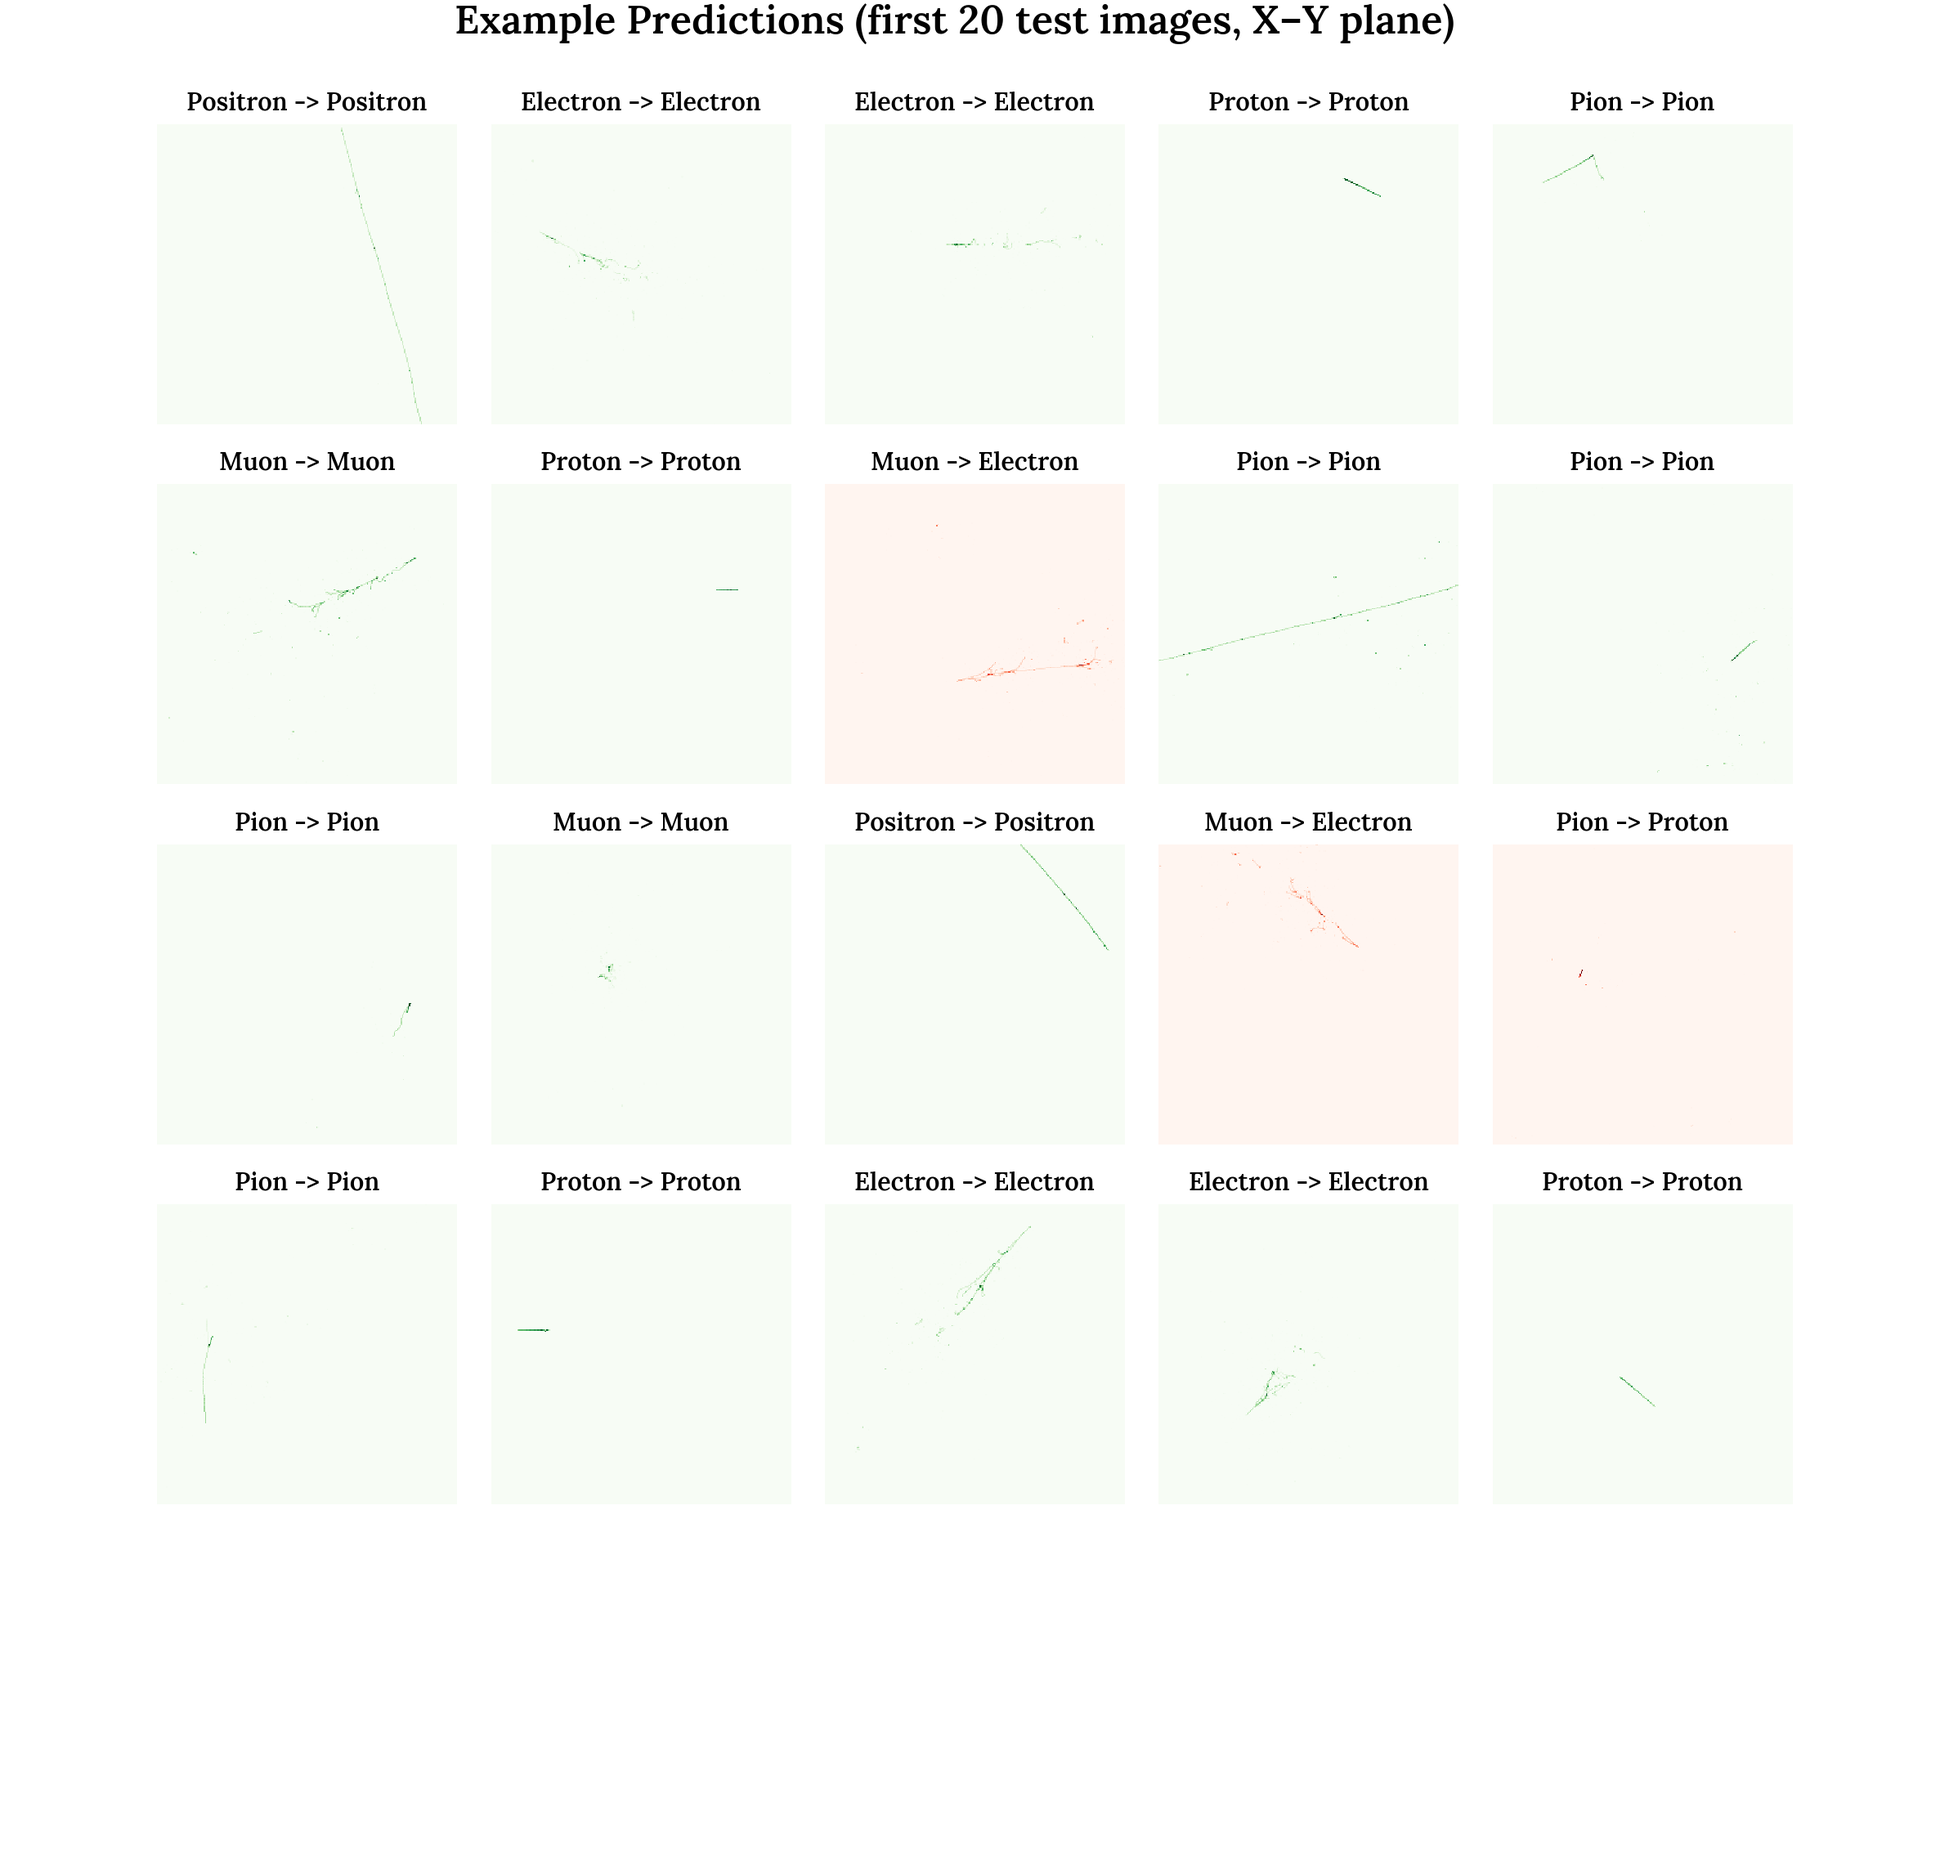
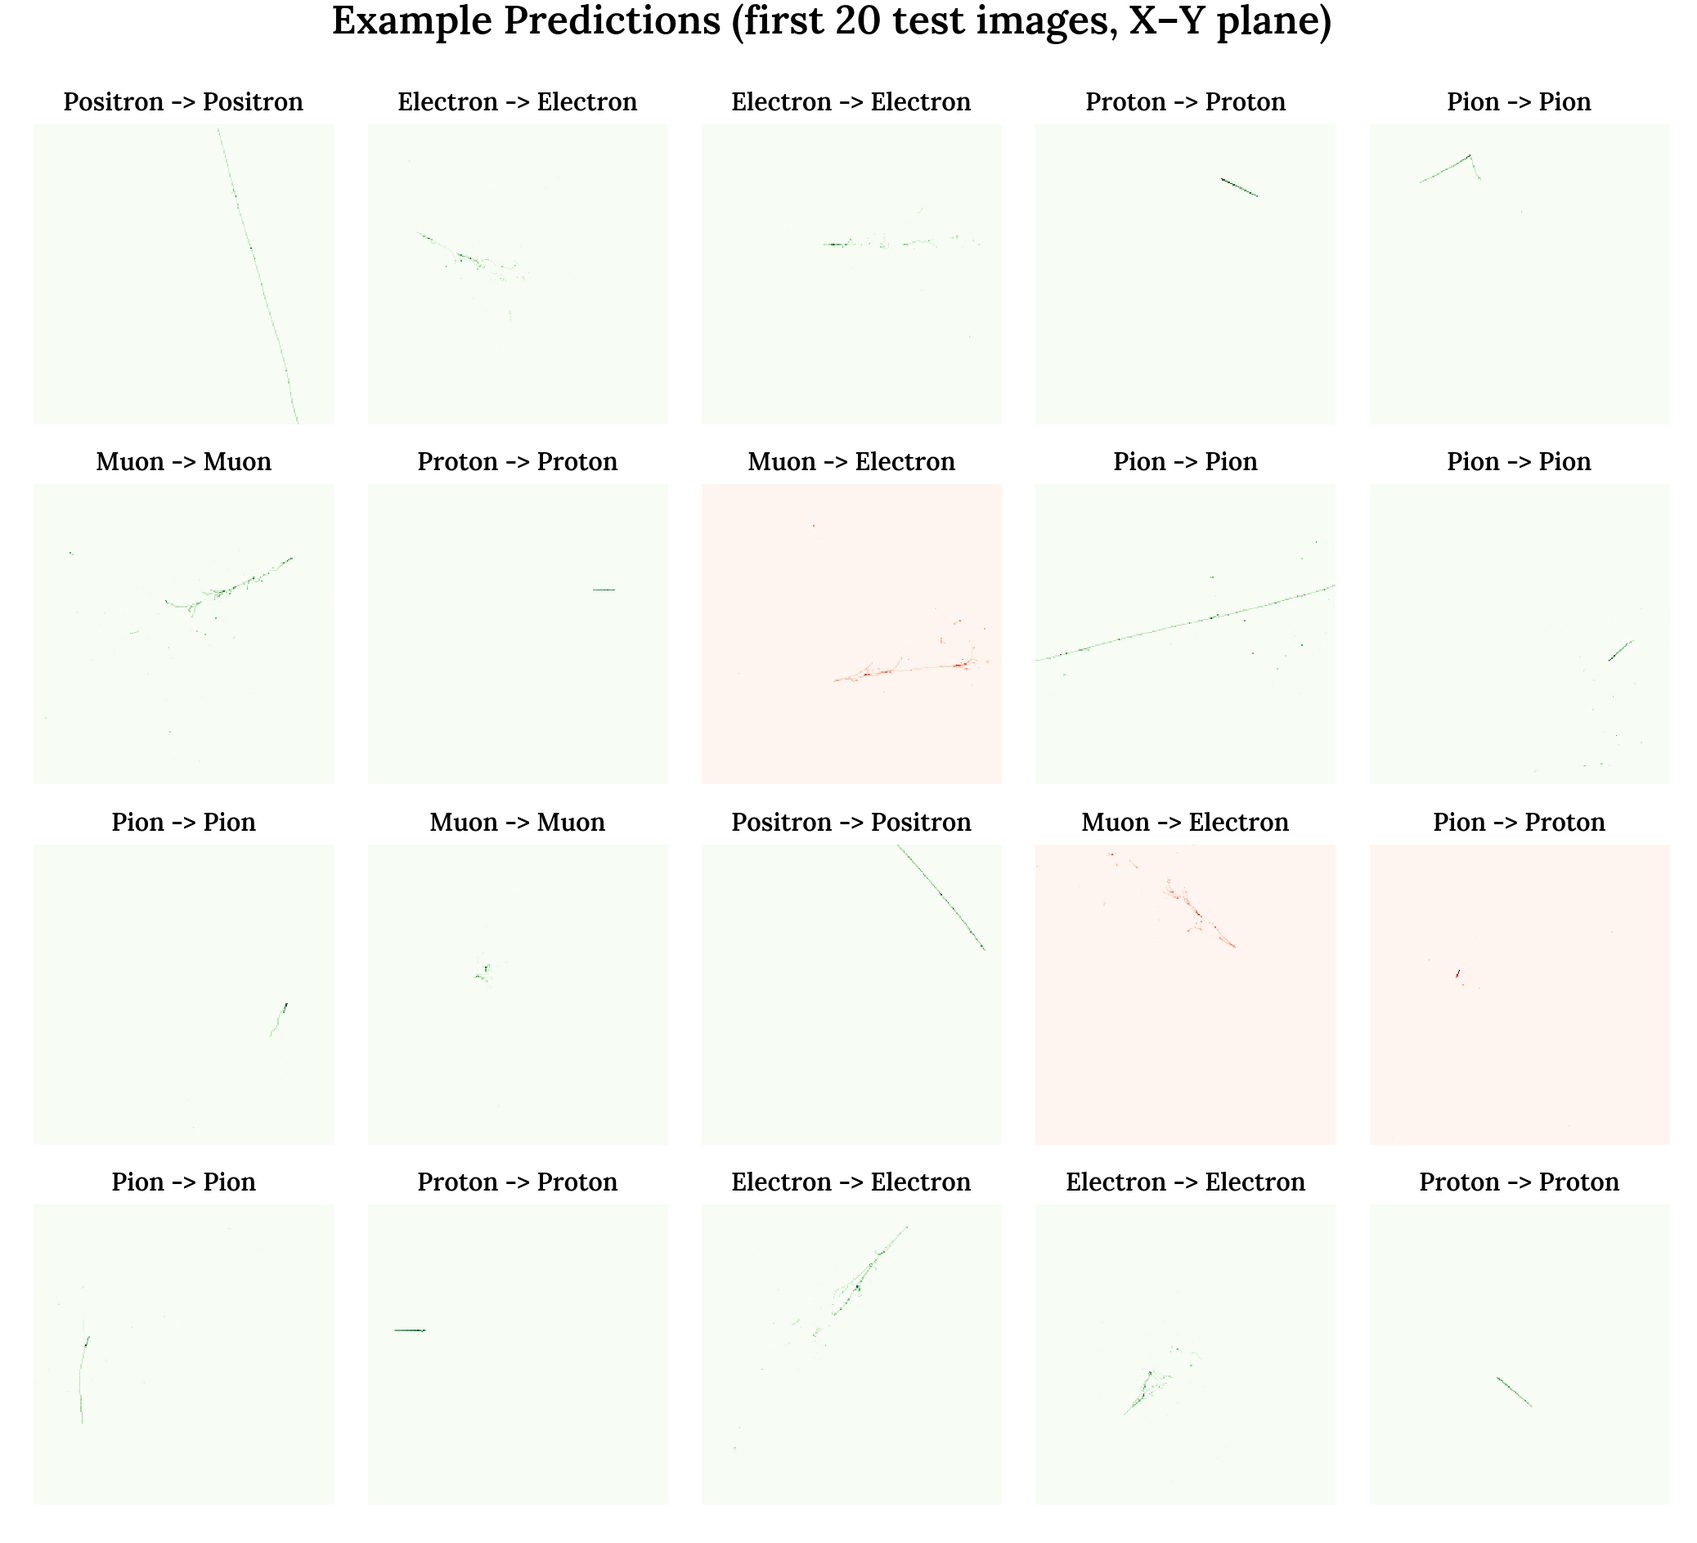
Finished project post for CNN

diff --git a/project/projects_files/libs/quarto-html/axe/axe-check 2.js b/project/projects_files/libs/quarto-html/axe/axe-check 2.js
@@ -1,0 +1,145 @@
+class QuartoAxeReporter {
+  constructor(axeResult, options) {
+    this.axeResult = axeResult;
+    this.options = options;
+  }
+
+  report() {
+    throw new Error("report() is an abstract method");
+  }
+}
+
+class QuartoAxeJsonReporter extends QuartoAxeReporter {
+  constructor(axeResult, options) {
+    super(axeResult, options);
+  }
+
+  report() {
+    console.log(JSON.stringify(this.axeResult, null, 2));
+  }
+}
+
+class QuartoAxeConsoleReporter extends QuartoAxeReporter {
+  constructor(axeResult, options) {
+    super(axeResult, options);
+  }
+
+  report() {
+    for (const violation of this.axeResult.violations) {
+      console.log(violation.description);
+      for (const node of violation.nodes) {
+        for (const target of node.target) {
+          console.log(target);
+          console.log(document.querySelector(target));
+        }
+      }
+    }
+  }
+}
+
+class QuartoAxeDocumentReporter extends QuartoAxeReporter {
+  constructor(axeResult, options) {
+    super(axeResult, options);
+  }
+
+  createViolationElement(violation) {
+    const violationElement = document.createElement("div");
+
+    const descriptionElement = document.createElement("div");
+    descriptionElement.className = "quarto-axe-violation-description";
+    descriptionElement.innerText = `${violation.impact.replace(/^[a-z]/, match => match.toLocaleUpperCase())}: ${violation.description}`;
+    violationElement.appendChild(descriptionElement);
+
+    const helpElement = document.createElement("div");
+    helpElement.className = "quarto-axe-violation-help";
+    helpElement.innerText = violation.help;
+    violationElement.appendChild(helpElement);
+
+    const nodesElement = document.createElement("div");
+    nodesElement.className = "quarto-axe-violation-nodes";
+    violationElement.appendChild(nodesElement);
+    const nodeElement = document.createElement("div");
+    nodeElement.className = "quarto-axe-violation-selector";
+    for (const node of violation.nodes) {
+      for (const target of node.target) {
+        const targetElement = document.createElement("span");
+        targetElement.className = "quarto-axe-violation-target";
+        targetElement.innerText = target;
+        nodeElement.appendChild(targetElement);
+        nodeElement.addEventListener("mouseenter", () => {
+          const element = document.querySelector(target);
+          if (element) {
+            element.scrollIntoView({ behavior: "smooth", block: "center" });
+            element.classList.add("quarto-axe-hover-highlight");
+            setTimeout(() => {
+              element.style.border = "";
+            }, 2000);
+          }
+        });
+        nodeElement.addEventListener("mouseleave", () => {
+          const element = document.querySelector(target);
+          if (element) {
+            element.classList.remove("quarto-axe-hover-highlight");
+          }
+        });
+        nodeElement.addEventListener("click", () => {
+          console.log(document.querySelector(target));
+        });
+        nodeElement.appendChild(targetElement);
+      }
+      nodesElement.appendChild(nodeElement);
+    }
+    return violationElement;
+  }
+
+  report() {
+    const violations = this.axeResult.violations;
+    const reportElement = document.createElement("div");
+    reportElement.className = "quarto-axe-report";
+    if (violations.length === 0) {
+      const noViolationsElement = document.createElement("div");
+      noViolationsElement.className = "quarto-axe-no-violations";
+      noViolationsElement.innerText = "No axe-core violations found.";
+      reportElement.appendChild(noViolationsElement);
+    }
+    violations.forEach((violation) => {
+      reportElement.appendChild(this.createViolationElement(violation));
+    });
+    document.querySelector("main").appendChild(reportElement);
+  }
+}
+
+const reporters = {
+  json: QuartoAxeJsonReporter,
+  console: QuartoAxeConsoleReporter,
+  document: QuartoAxeDocumentReporter,
+};
+
+class QuartoAxeChecker {
+  constructor(opts) {
+    this.options = opts;
+  }
+  async init() {
+    const axe = (await import("https://cdn.skypack.dev/pin/axe-core@v4.10.3-aVOFXWsJaCpVrtv89pCa/mode=imports,min/optimized/axe-core.js")).default;
+    const result = await axe.run({
+      exclude: [
+       // https://github.com/microsoft/tabster/issues/288
+       // MS has claimed they won't fix this, so we need to add an exclusion to
+       // all tabster elements
+       "[data-tabster-dummy]"
+      ],
+      preload: { assets: ['cssom'], timeout: 50000 }    
+    });
+    const reporter = this.options === true ? new QuartoAxeConsoleReporter(result) : new reporters[this.options.output](result, this.options);
+    reporter.report();
+  }
+}
+
+export async function init() {
+  const opts = document.querySelector("#quarto-axe-checker-options");
+  if (opts) {
+    const jsonOptions = JSON.parse(atob(opts.textContent));
+    const checker = new QuartoAxeChecker(jsonOptions);
+    await checker.init();
+  }
+}

diff --git a/project/projects_files/libs/quarto-html/tabsets/tabsets 2.js b/project/projects_files/libs/quarto-html/tabsets/tabsets 2.js
@@ -1,0 +1,95 @@
+// grouped tabsets
+
+export function init() {
+  window.addEventListener("pageshow", (_event) => {
+    function getTabSettings() {
+      const data = localStorage.getItem("quarto-persistent-tabsets-data");
+      if (!data) {
+        localStorage.setItem("quarto-persistent-tabsets-data", "{}");
+        return {};
+      }
+      if (data) {
+        return JSON.parse(data);
+      }
+    }
+
+    function setTabSettings(data) {
+      localStorage.setItem(
+        "quarto-persistent-tabsets-data",
+        JSON.stringify(data)
+      );
+    }
+
+    function setTabState(groupName, groupValue) {
+      const data = getTabSettings();
+      data[groupName] = groupValue;
+      setTabSettings(data);
+    }
+
+    function toggleTab(tab, active) {
+      const tabPanelId = tab.getAttribute("aria-controls");
+      const tabPanel = document.getElementById(tabPanelId);
+      if (active) {
+        tab.classList.add("active");
+        tabPanel.classList.add("active");
+      } else {
+        tab.classList.remove("active");
+        tabPanel.classList.remove("active");
+      }
+    }
+
+    function toggleAll(selectedGroup, selectorsToSync) {
+      for (const [thisGroup, tabs] of Object.entries(selectorsToSync)) {
+        const active = selectedGroup === thisGroup;
+        for (const tab of tabs) {
+          toggleTab(tab, active);
+        }
+      }
+    }
+
+    function findSelectorsToSyncByLanguage() {
+      const result = {};
+      const tabs = Array.from(
+        document.querySelectorAll(`div[data-group] a[id^='tabset-']`)
+      );
+      for (const item of tabs) {
+        const div = item.parentElement.parentElement.parentElement;
+        const group = div.getAttribute("data-group");
+        if (!result[group]) {
+          result[group] = {};
+        }
+        const selectorsToSync = result[group];
+        const value = item.innerHTML;
+        if (!selectorsToSync[value]) {
+          selectorsToSync[value] = [];
+        }
+        selectorsToSync[value].push(item);
+      }
+      return result;
+    }
+
+    function setupSelectorSync() {
+      const selectorsToSync = findSelectorsToSyncByLanguage();
+      Object.entries(selectorsToSync).forEach(([group, tabSetsByValue]) => {
+        Object.entries(tabSetsByValue).forEach(([value, items]) => {
+          items.forEach((item) => {
+            item.addEventListener("click", (_event) => {
+              setTabState(group, value);
+              toggleAll(value, selectorsToSync[group]);
+            });
+          });
+        });
+      });
+      return selectorsToSync;
+    }
+
+    const selectorsToSync = setupSelectorSync();
+    for (const [group, selectedName] of Object.entries(getTabSettings())) {
+      const selectors = selectorsToSync[group];
+      // it's possible that stale state gives us empty selections, so we explicitly check here.
+      if (selectors) {
+        toggleAll(selectedName, selectors);
+      }
+    }
+  });
+}
